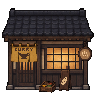
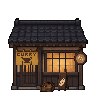
Persist curry SHOP_S Pixel Standard canonical

diff --git a/data/station-plaza-props.js b/data/station-plaza-props.js
@@ -3,7 +3,6 @@
 
     var PROP_REV = '20260711-1';
     var propImageCache = {};
-    var propCanonicalCache = {};
     var stationPreloadSources = {};
     var stationPreloadPending = 0;
     var stationPreloadTotal = 0;
@@ -76,64 +75,6 @@
         }
 
         return prop.src || '';
-    }
-
-    function getCanonicalPropImage(prop, entry) {
-        if (!entry || !entry.loaded || !entry.image) return null;
-
-        var objectDef = resolveWorldObjectDef(prop);
-        var finalization = objectDef && objectDef.finalization;
-        var pixelStandard = finalization && finalization.pixelStandard;
-        var bounds = pixelStandard && pixelStandard.contentBounds;
-
-        if (
-            !pixelStandard ||
-            pixelStandard.runtimeCanonicalization !== true ||
-            pixelStandard.contentMode !== 'LEGACY_RENDER_BAKE' ||
-            !bounds
-        ) {
-            return entry.image;
-        }
-
-        var logical = finalization.logicalCanvasPx || [96, 96];
-        var logicalW = Math.max(1, Math.round(Number(logical[0]) || 96));
-        var logicalH = Math.max(1, Math.round(Number(logical[1]) || 96));
-        var bx = Math.round(Number(bounds.x) || 0);
-        var by = Math.round(Number(bounds.y) || 0);
-        var bw = Math.max(1, Math.round(Number(bounds.w) || logicalW));
-        var bh = Math.max(1, Math.round(Number(bounds.h) || logicalH));
-
-        var key = [
-            objectDef.id || prop.objectId,
-            entry.image.currentSrc || entry.image.src || '',
-            logicalW, logicalH, bx, by, bw, bh
-        ].join('|');
-
-        if (propCanonicalCache[key]) {
-            return propCanonicalCache[key];
-        }
-
-        var canvas = document.createElement('canvas');
-        canvas.width = logicalW;
-        canvas.height = logicalH;
-
-        var canonicalCtx = canvas.getContext('2d');
-        canonicalCtx.clearRect(0, 0, logicalW, logicalH);
-        canonicalCtx.imageSmoothingEnabled = false;
-        canonicalCtx.drawImage(
-            entry.image,
-            0,
-            0,
-            entry.image.naturalWidth || entry.image.width,
-            entry.image.naturalHeight || entry.image.height,
-            bx,
-            by,
-            bw,
-            bh
-        );
-
-        propCanonicalCache[key] = canvas;
-        return canvas;
     }
 
     function openStationTile16x8(rects) {
@@ -318,8 +259,7 @@
 
         window.ctx.save();
         window.ctx.imageSmoothingEnabled = false;
-        var renderImage = getCanonicalPropImage(prop, entry) || entry.image;
-        window.ctx.drawImage(renderImage, dx, dy, dw, dh);
+        window.ctx.drawImage(entry.image, dx, dy, dw, dh);
         window.ctx.restore();
         return true;
     }

diff --git a/data/world-objects.js b/data/world-objects.js
@@ -397,10 +397,10 @@
             id: 'curry_shop_01',
             category: 'shop',
             type: 'curry_shop',
-            src: 'assets/maps/objects/shops/curry_shop_01.png?rev=20260925-pixelstd02',
+            src: 'assets/maps/objects/shops/curry_shop_01.png?rev=20260925-curry-persistent96',
             finalization: {
                 target: 'SHOP_S',
-                sourceCleanerTarget: 'FACILITY_M',
+                sourceCleanerTarget: 'SHOP_S',
                 logicalCanvasPx: [96, 96],
                 townAssetFilePx: [96, 96],
                 townAssetPixelRatio: 1,
@@ -429,7 +429,13 @@
                     contentBounds: { x: 6, y: 12, w: 84, h: 84 },
                     groundAnchorY: 95,
                     contentMode: 'LEGACY_RENDER_BAKE',
-                    runtimeCanonicalization: true,
+                    runtimeCanonicalization: false,
+                    persistentCanonical: true,
+                    logicalRasterized: true,
+                    logicalRasterMethod: 'EXPLICIT_LOGICAL_NEAREST',
+                    logicalGridVerified: true,
+                    pixelSafe: true,
+                    pixelSafeMethod: 'EXPLICIT_LOGICAL_NEAREST_PLUS_PHYSICAL_INTEGER_SCALE_PASS',
                     worldPxPerLogicalPx: 1,
                     editingSpace: 'TOWN_LOGICAL_PIXELS',
                     previewMatchesTown: true,
@@ -437,7 +443,7 @@
                     physicalFileMayUseDeviceScale: true,
                     sourcePhysicalPx: [720, 720]
                 },
-                pixelSafe: false,
+                pixelSafe: true,
                 status: 'final'
             }
         },

diff --git a/index.html b/index.html
@@ -535,7 +535,7 @@
     }
 })();
 </script>
-<script src="./data/world-objects.js?rev=20260925-yakitori-persistent96"></script>
+<script src="./data/world-objects.js?rev=20260925-curry-persistent96"></script>
 <script src="./data/station-plaza.js?rev=20260925-station128"></script>
 <script>document.write('<script src="./data/notes.js?rev=' + Date.now() + '"><\/script>');</script>
 <script src="./data/works.js?v=20260918-2"></script>
@@ -545,7 +545,7 @@
 <script src="./main.js?rev=20260925-alley-cleanup01"></script>
 <script src="./developer-access.js?v=20260821-1"></script>
 <script src="./town-editor-upgrade.js?v=20260814-1"></script>
-<script src="./data/station-plaza-props.js?rev=20260925-pixelstd02"></script>
+<script src="./data/station-plaza-props.js?rev=20260925-curry-persistent96"></script>
 <script src="./town-update-sign.js?v=20260823-1"></script>
 <script src="./town-feedback-box.js?v=20260823-1"></script>
 <script src="./data/town-runtime-fixes.js?v=20260925-alley-cleanup01"></script>
